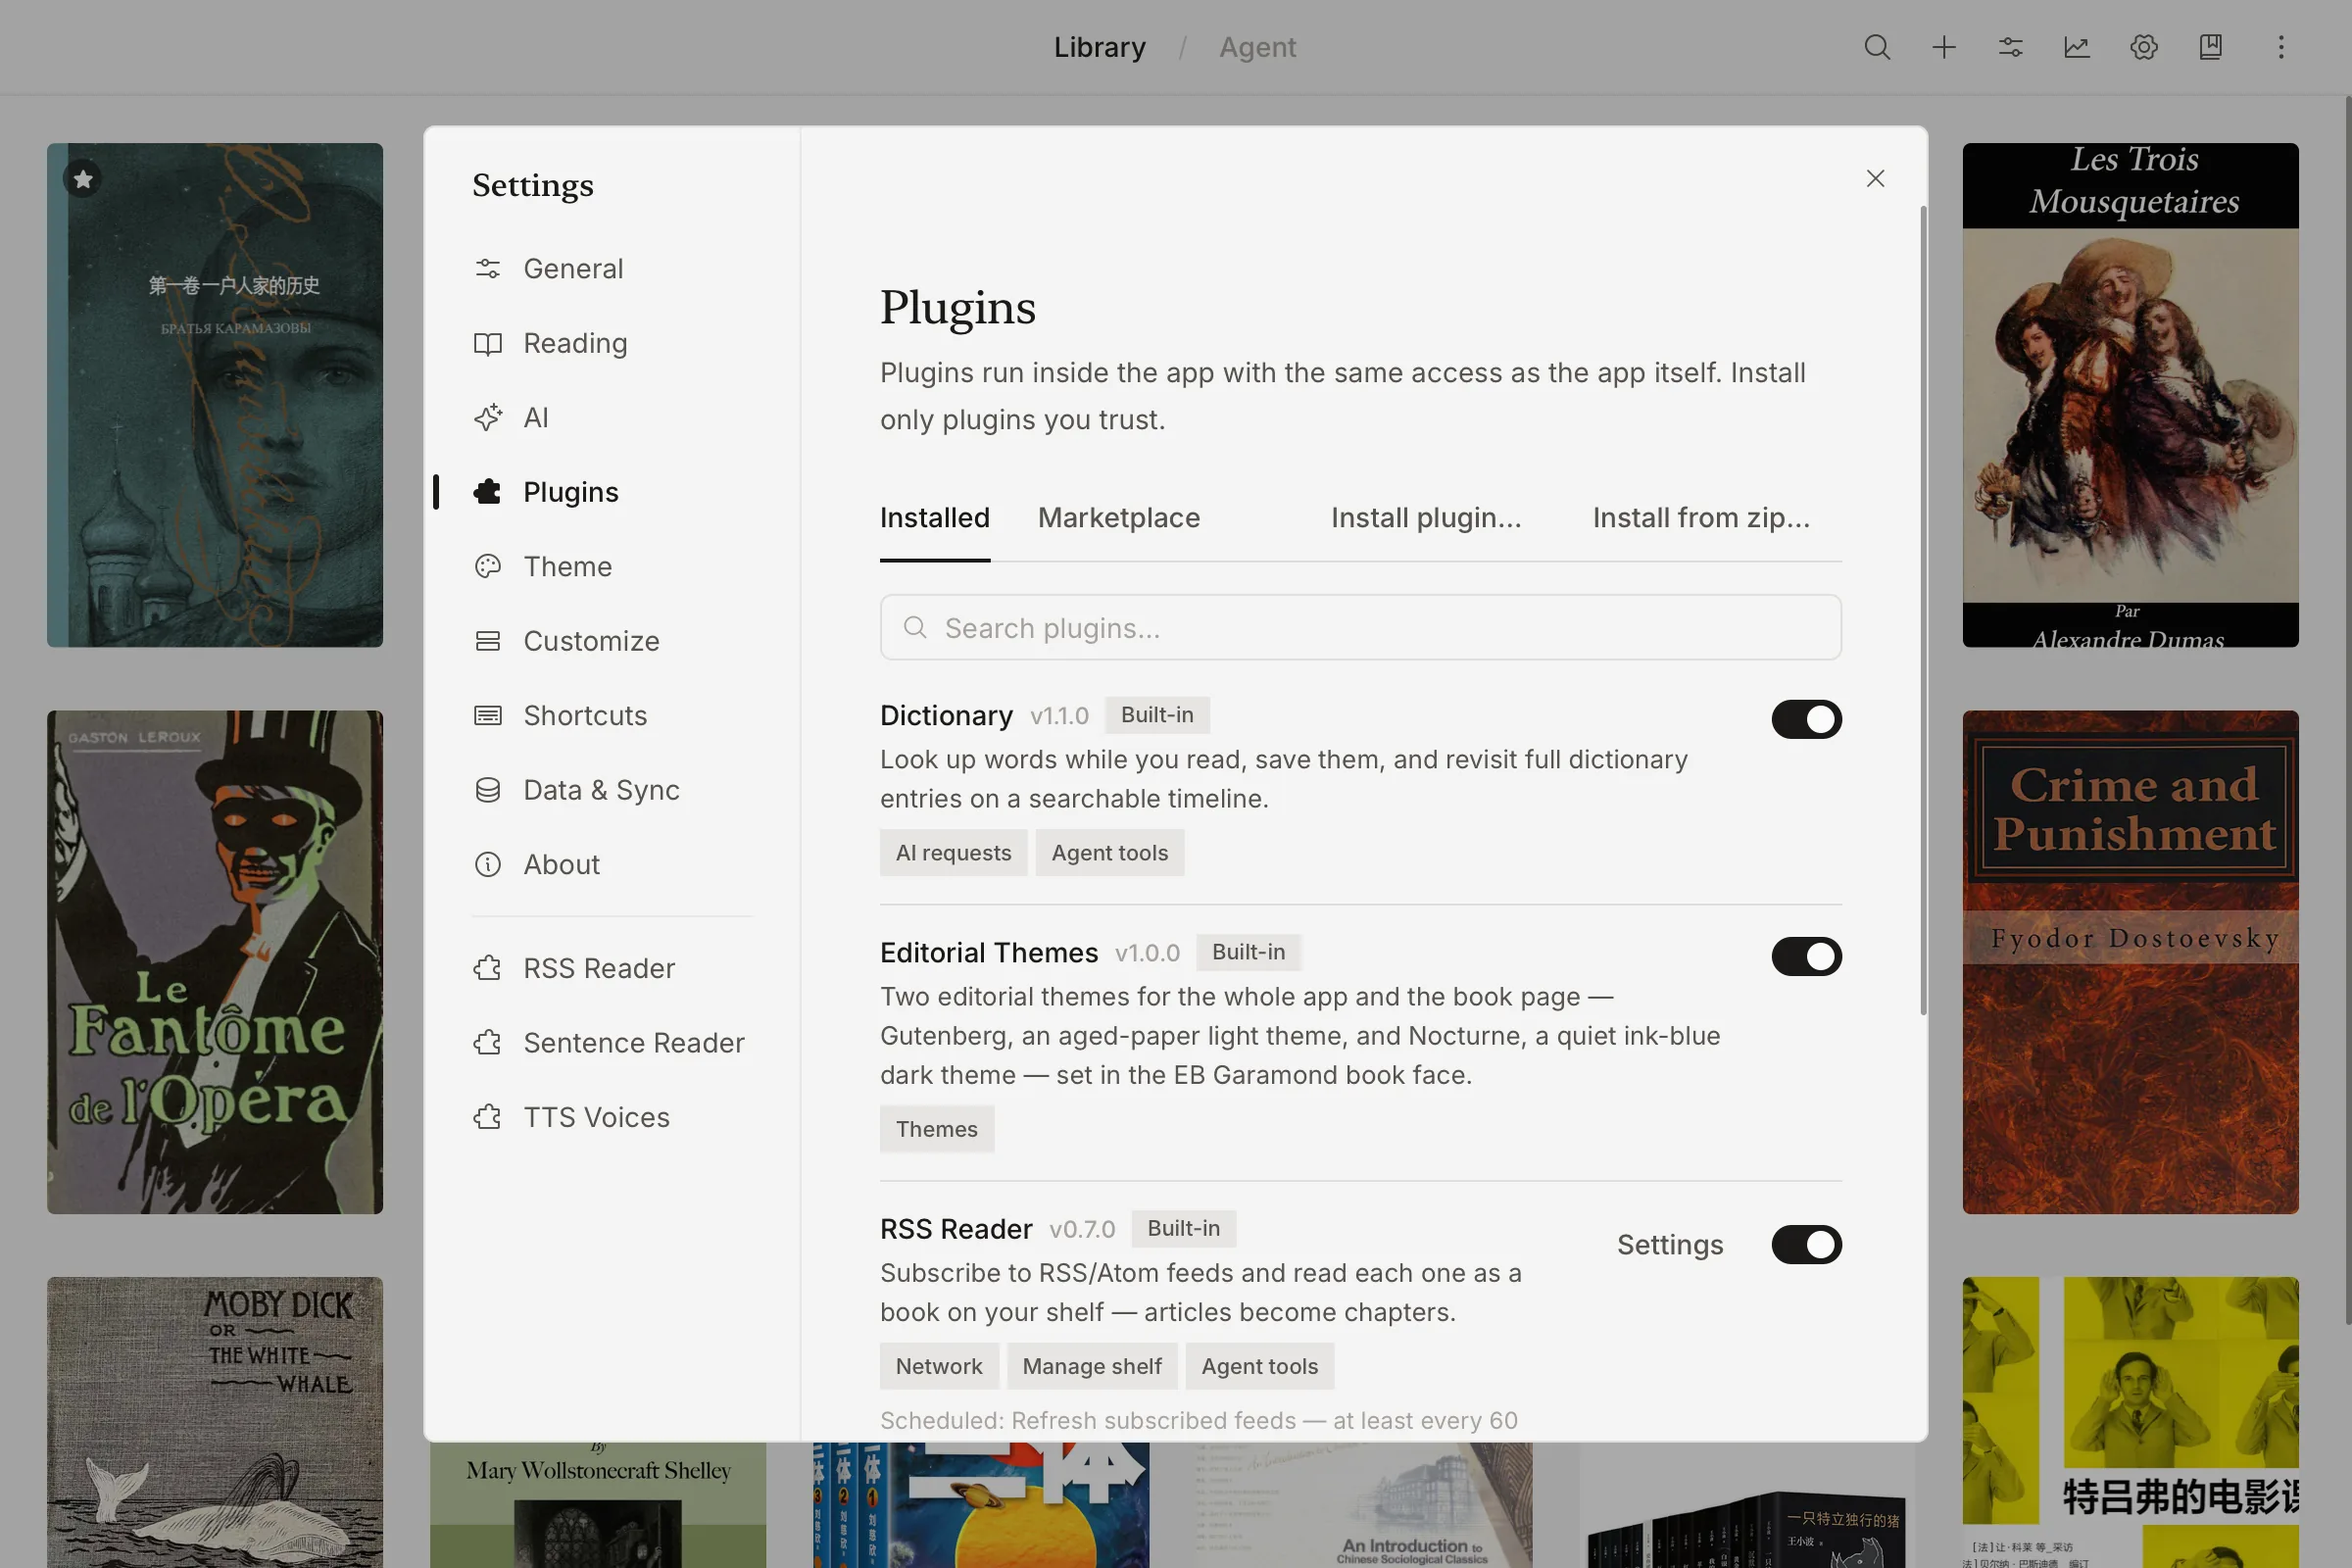
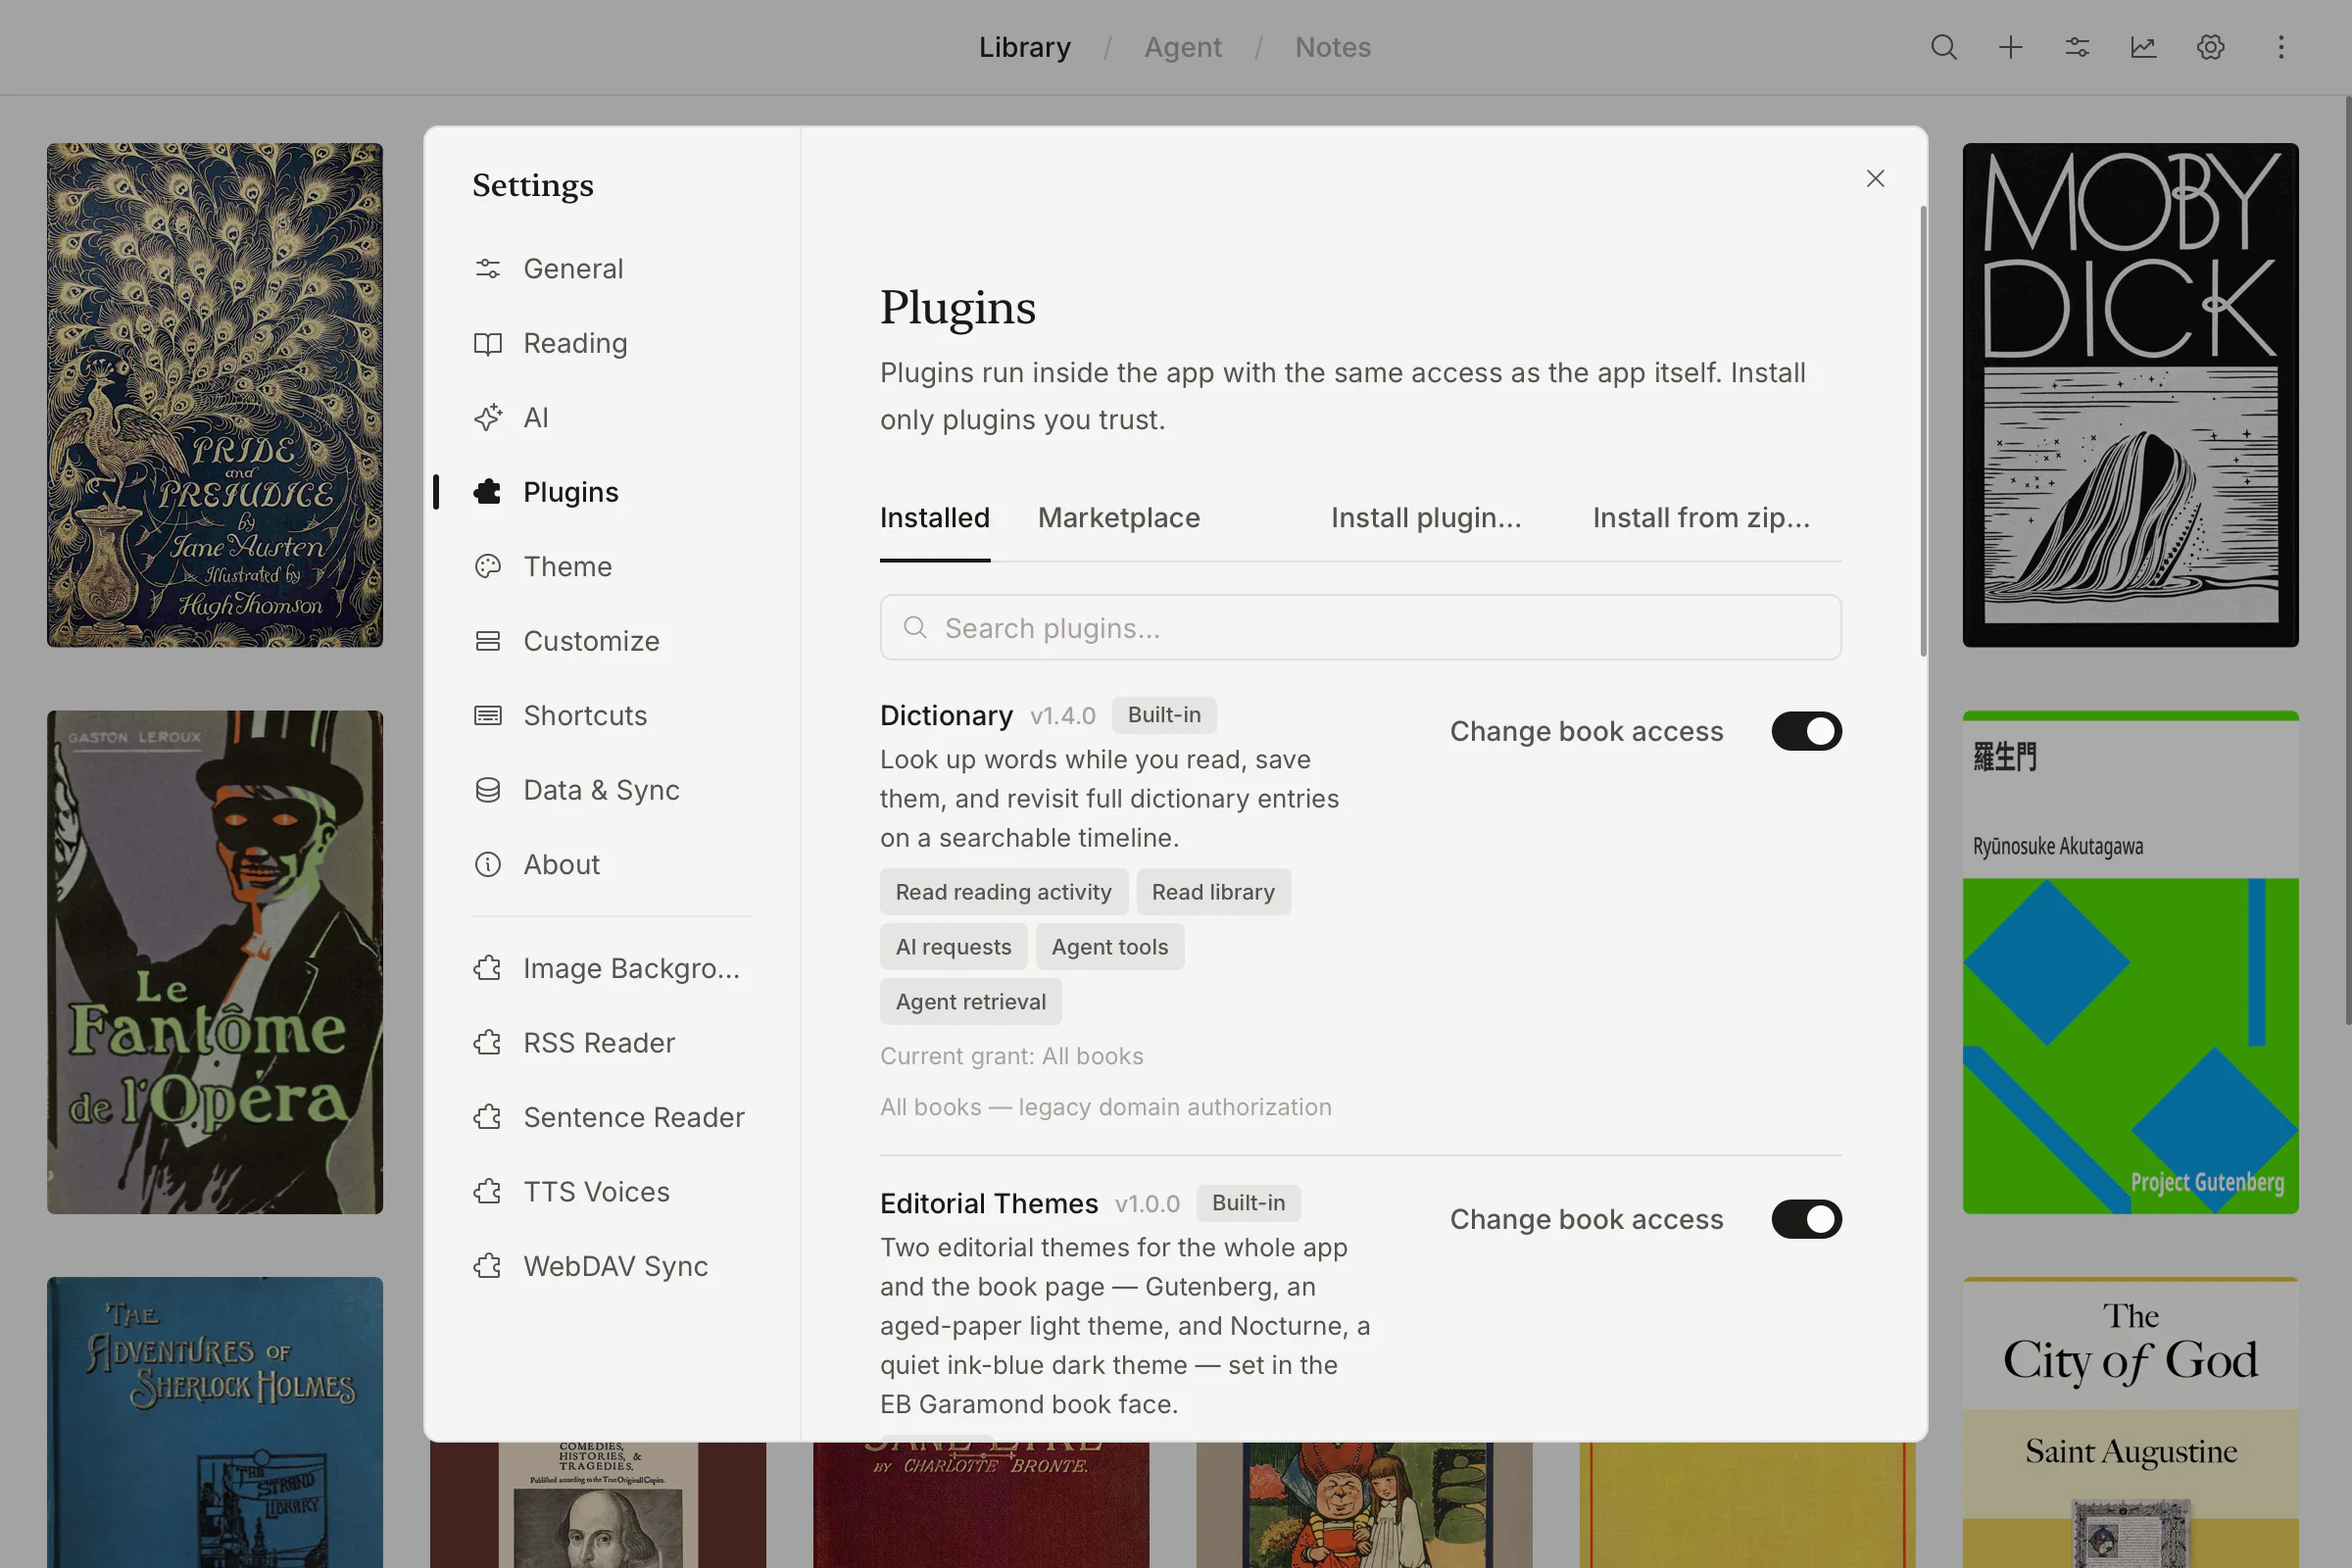
docs(landing): the four desktop plates are retaken on 0.6.11
The shelf, reader, assistant and plugin plates still showed the app as it
was in August: no Notes page, the old Agent header, a collection as a grid,
square controls. All four are captured again from the 0.6.11 source, each as
a light and dark pair of one staged view, and og.jpg is recut from the new
shelf.

They come from a profile made for the purpose instead of a working library:
25 public-domain books from Project Gutenberg in seven languages and one
collection, with no account and no private books or notes. The assistant
plate is one real conversation about that shelf, unedited.

SCREENSHOTS.md now records how the desktop plates are staged and retaken,
beside the Android procedure it already had.

diff --git a/apps/landing/src/components/Plate.tsx b/apps/landing/src/components/Plate.tsx
@@ -1,5 +1,5 @@
 // Cache-buster for the retaken screenshot set (bump when replacing the files).
-const SHOT_VERSION = "?v=043";
+const SHOT_VERSION = "?v=0611";
 
 /**
  * A screenshot printed as a plate: a hairline frame does the separating, and a

diff --git a/apps/landing/SCREENSHOTS.md b/apps/landing/SCREENSHOTS.md
@@ -1,5 +1,48 @@
 # Website Screenshots
 
+## Desktop Plates
+
+`public/screenshots/{shelf,reader,context,plugins}-{light,dark}.webp` are
+unretouched captures of the desktop app's webview, 1200 x 800 at 2x. Each
+light/dark pair is one staged view captured twice, with only the theme changed
+in between. `public/og.jpg` is cut from the light shelf.
+
+- Captured: 2026-11-18, from the v0.6.11 source running as a development build
+  on macOS.
+- Library: a profile made for the captures, holding 25 public-domain EPUBs from
+  Project Gutenberg in English, French, German, Spanish, Italian, Chinese and
+  Japanese, and one collection, "Russian novels". No account, no sync, no
+  private books or notes.
+- Shelf: default sort, scrolled to the top.
+- Reader: *Pride and Prejudice* (Gutenberg no. 1342), Chapter I, continuous
+  scroll, Literata, Sentence Reader on the opening sentence. Page theme Warm
+  for the light capture and Dark for the dark one.
+- Context: one real conversation on the Agent page, asked once and not edited:
+  "Look across my whole shelf. What threads run through the books I keep?"
+- Plugins: Settings → Plugins on a fresh profile, built-in plugins only.
+
+### Retaking
+
+Capture from a profile of its own, never from a personal library: the plates
+are public. A development build can run under a separate identity beside the
+ordinary one, with its own data directory, when it is started with
+`READAWARE_ACCEPTANCE_IDENTITY=com.readaware.app.<name>` and a Tauri config
+that sets the same `identifier`, a `productName` that does not start with
+"ReadAware Dev", and its own `devUrl` port (see
+`apps/desktop/src-tauri/tauri.capability-e2e.conf.json` for the shape). Fill
+the library with `ra --data-dir <profile> import <files>`; the shelf lists the
+most recently added book first.
+
+The webview stops animating while its window is fully covered, so surfaces
+that fade in come out blank. Keep the window on screen while capturing, without
+giving it keyboard focus: a capture session that takes focus also takes
+whatever is being typed elsewhere.
+
+Encode with `cwebp -q 84 -m 6 -sharp_yuv`, keep the 2400 x 1600 frame, and bump
+`SHOT_VERSION` in `src/components/Plate.tsx` together with the two preload URLs
+in `scripts/prerender.mjs`. Check every image for anything private before
+committing it.
+
 ## Android Reader
 
 `public/screenshots/android-reader-{light,dark}.png` are unmodified device
